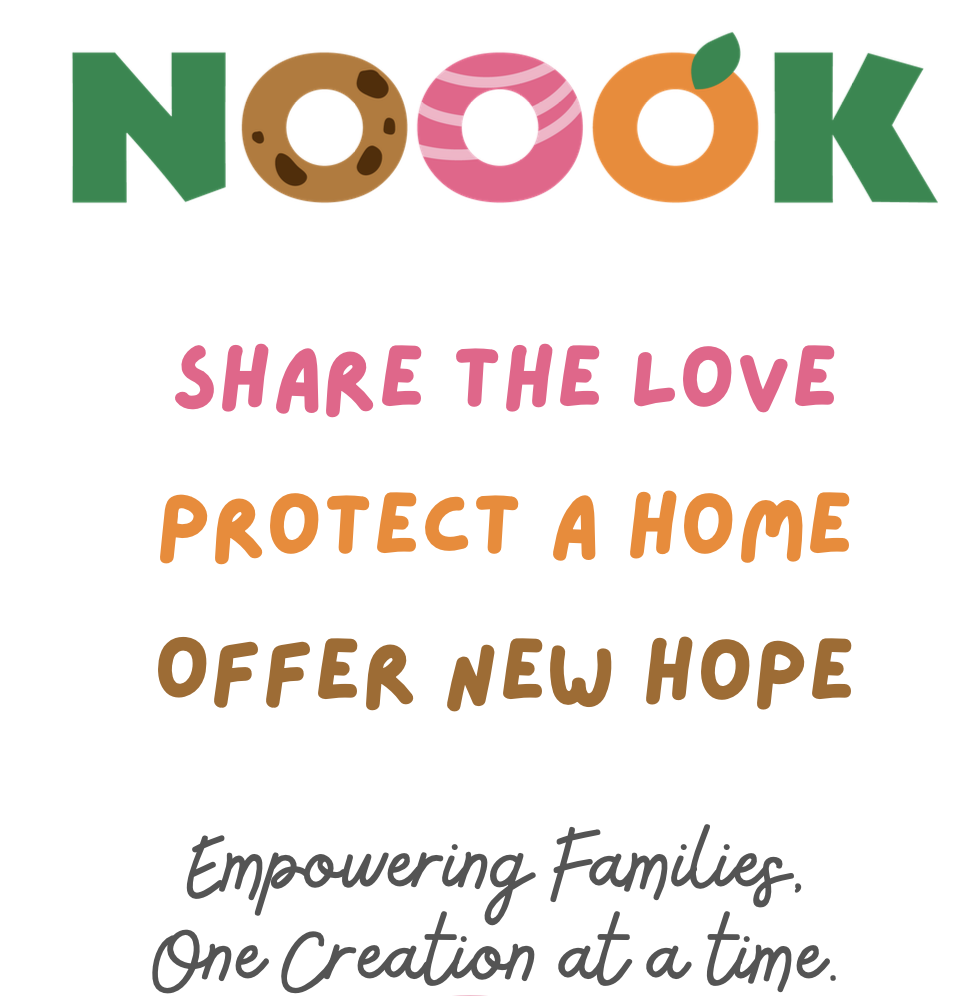
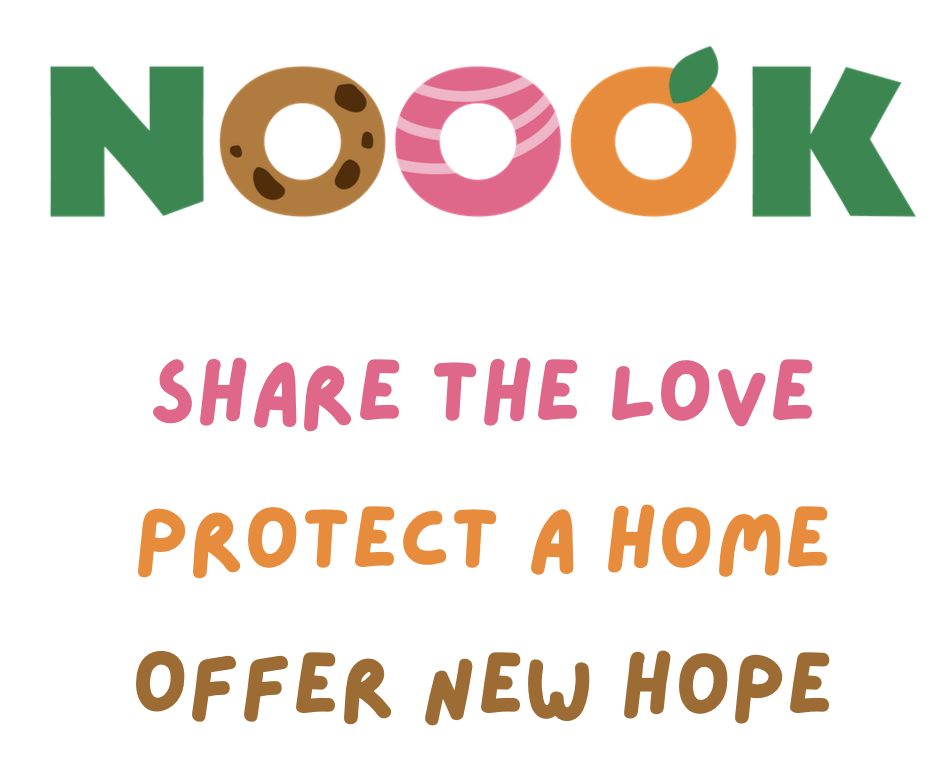
changes to home image and words

diff --git a/src/app/blog/page.tsx b/src/app/blog/page.tsx
@@ -1,3 +1,53 @@
-export default function BlogPage() {
-  return <main>Blog coming soon...</main>;
+import fs from "fs";
+import path from "path";
+import matter from "gray-matter";
+
+interface BlogPost {
+  slug: string;
+  title: string;
+  date: string;
+  excerpt: string;
+  image?: string;
 }
+
+export default function BlogPage() {
+  // Directory where Decap CMS writes blog posts
+  const postsDir = path.join(process.cwd(), "src/content/blog");
+  let posts: BlogPost[] = [];
+  if (fs.existsSync(postsDir)) {
+    const filenames = fs.readdirSync(postsDir).filter(f => f.endsWith(".md"));
+    posts = filenames.map((filename) => {
+      const filePath = path.join(postsDir, filename);
+      const fileContent = fs.readFileSync(filePath, "utf8");
+      const { data } = matter(fileContent);
+      return {
+        slug: filename.replace(/\.md$/, ""),
+        title: data.title || "Untitled",
+        date: data.date || "",
+        excerpt: data.excerpt || "",
+        image: data.image || undefined,
+      };
+    });
+    posts.sort((a, b) => (a.date < b.date ? 1 : -1));
+  }
+
+  return (
+    <main style={{ maxWidth: 800, margin: "0 auto", padding: 40 }}>
+      <h1 style={{ fontSize: 40, fontWeight: 900, color: "var(--accent-dark)", marginBottom: 24 }}>
+        Blog
+      </h1>
+      {posts.length === 0 && <p>No blog posts found.</p>}
+      {posts.map((post) => (
+        <div key={post.slug} style={{ marginBottom: 40 }}>
+          <h2 style={{ fontSize: 28, color: "var(--accent)" }}>{post.title}</h2>
+          <p style={{ color: "#888", fontSize: 14 }}>{post.date ? new Date(post.date).toLocaleDateString() : ""}</p>
+          {post.image && (
+            <img src={post.image} alt={post.title} style={{ maxWidth: "100%", marginBottom: 12 }} />
+          )}
+          <p>{post.excerpt}</p>
+        </div>
+      ))}
+    </main>
+  );
+}
+

diff --git a/src/app/page.tsx b/src/app/page.tsx
@@ -26,7 +26,7 @@ export default function Home() {
       </div>
       <section style={{ textAlign: "center", marginBottom: 48 }}>
         <h1 style={{ fontSize: 54, fontWeight: 900, marginBottom: 12, color: "var(--accent-dark)" }}>
-          Empowering Families, One Creation at a Time
+          Empowering Families, One Crochet at a Time
         </h1>
         <h2 style={{ fontSize: 28, fontWeight: 600, marginBottom: 24, color: "var(--accent)" }}>
           Our Vision

diff --git a/public/admin/index.html b/public/admin/index.html
@@ -6,6 +6,6 @@
     <meta name="viewport" content="width=device-width, initial-scale=1">
   </head>
   <body>
-    <script src="https://unpkg.com/netlify-cms@^2.0.0/dist/netlify-cms.js"></script>
+    <script src="https://unpkg.com/decap-cms@^3.0.0/dist/decap-cms.js"></script>
   </body>
 </html>
